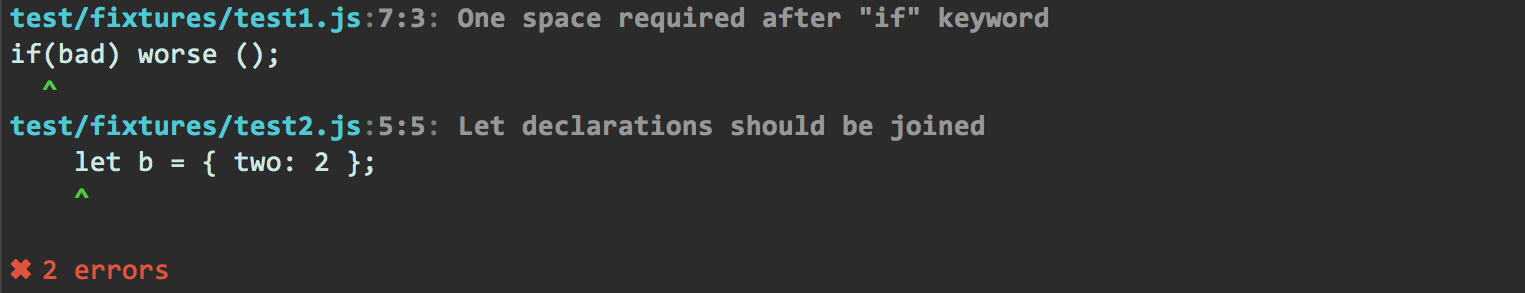
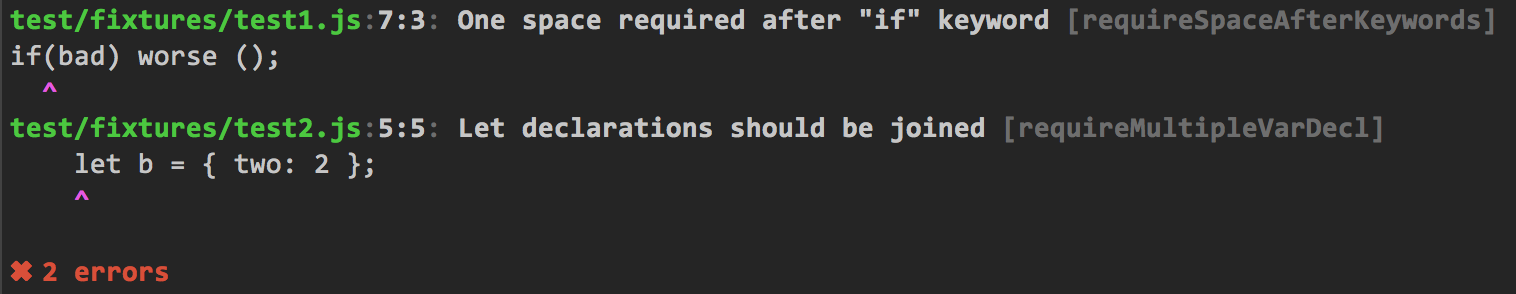
Fixes and enhancements...
- Changed colors to work better in a variety of color schemes and terminals.
- Rule has its own color now.
- Fixes for Windows.

diff --git a/lib/index.js b/lib/index.js
@@ -10,13 +10,14 @@ var chalk = require("chalk"),
 // jscs: disable requireMultipleVarDecl
 
 var colorMap = {
-    file: chalk.cyan.bold,
-    location: chalk.gray.bold,
-    message: chalk.gray.bold,
+    file: chalk.green.bold,
+    location: chalk.bold,
+    message: chalk.bold,
+    rule: chalk.bold.dim,
     separator: chalk.dim,
     source: null,
-    caret: chalk.green.bold,
-    summary: chalk.red
+    caret: chalk.magenta.bold,
+    summary: chalk.red.bold
 };
 
 // jscs: enable
@@ -30,13 +31,7 @@ module.exports = function(errorsCollection)
         options = loadOptions(),
         colorize;
 
-    // If chalk.enabled === false, that means the user passed --no-colors
-    // on the command line, which we will honor. Otherwise use the value in options,
-    // and failing that, default to true.
-    if (chalk.enabled)
-        colorize = typeof options.colorize === "boolean" ? options.colorize : true;
-    else
-        colorize = false;
+    colorize = typeof options.colorize === "boolean" ? options.colorize : chalk.enabled;
 
     if (colorize && typeof options.colors === "object")
         setColorMap(options.colors);
@@ -174,10 +169,14 @@ function explainError(lines, error, verbose, colorize)
         var match = message.match(/([a-z][\w\-]*?): (.+)/);
 
         if (match)
-            message = match[2] + " [" + match[1] + "]";
-    }
+        {
+            var rule = colorizeText(colorize, "rule", " [" + match[1] + "]");
 
-    message = colorizeText(colorize, "message", message);
+            message = colorizeText(colorize, "message", match[2]) + rule;
+        }
+    }
+    else
+        message = colorizeText(colorize, "message", message);
 
     return file + sep + location + sep + " " + message + "\n" + source + "\n" + caret + "\n";
 }

diff --git a/test/test.js b/test/test.js
@@ -11,7 +11,7 @@ var baseDir = "test/fixtures";  // jscs: ignore
 
 function readFixture(name)
 {
-    return fs.readFileSync(path.join(baseDir, name + ".txt"), "utf8");
+    return fs.readFileSync(path.join(baseDir, name + ".txt"), { encoding: "utf8" });
 }
 
 function writeFixture(name, data)

diff --git a/README.md b/README.md
@@ -5,11 +5,9 @@ jscs-clang-reporter
 
 This reporter for [JSCS](http://jscs.info) provides more concise output than the JSCS `console` reporter, but more information than the JSCS one-line reporters. The output is formatted similar to the error output from `clang`.
 
-Here is sample output in non-verbose mode and verbose mode (passing `-v|--verbose` on command line):
+Here is sample output in verbose mode (passing `-v|--verbose` on command line):
 
 ![ ](docs/report.png)
-
-![ ](docs/report-verbose.png)
 
 
 
@@ -65,18 +63,19 @@ By default, the elements of each error message are colorized with the following 
 
 Name      | Color
 :-------  | :-----
-file      | cyan.bold
-location  | gray.bold
-message   | gray.bold
+file      | green.bold
+location  | bold
+message   | bold
+rule      | bold.dim
 separator | dim
 source    | null
-caret     | green.bold
-summary   | red
+caret     | magenta.bold
+summary   | red.bold
 
 A formatted error message has the following structure:
 
 ```
-<file>:<location>: <message>
+<file>:<location>: <message> <rule>
 <source>
 <caret>
 ```
@@ -86,6 +85,7 @@ The elements of the message are:
 - **file** - The filename where the error occurred.
 - **location** - The one-based line:column within the entire source where the issue occurred.
 - **message** - The error message.
+- **rule** - If verbose mode is on, the name of the offending rule in `[]`.
 - **source** - The line of code within the file where the issue occurred.
 - **caret** - `^` marks the position within `<source>` where the error occurred.
 - **separator** - The ":" characters in the first line are colorized with the "separator" color in the color map.
@@ -105,7 +105,7 @@ Here is a sample color map:
 	     "separator": "green",
 	     "source": "inverse",
 	     "caret": "cyan.bold",
-	     "summary": "magenta"
+	     "summary": null
 	 }
 }
 ```
